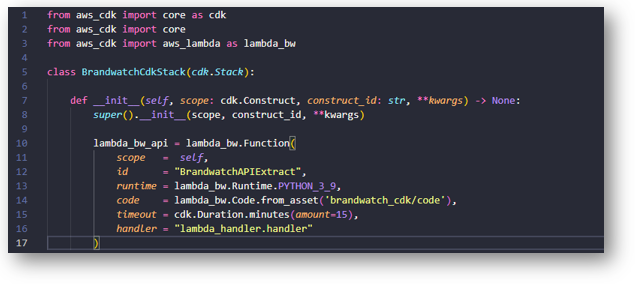
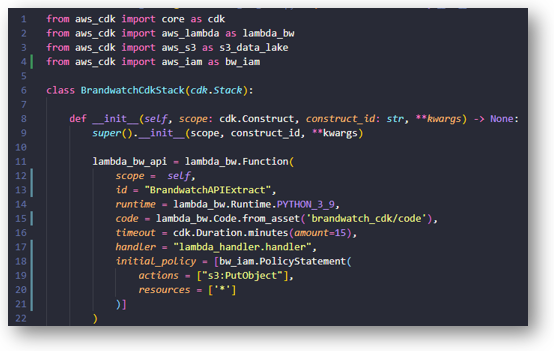
Adicionado permissão de PutObject no S3 para a lambda

Changed region(s): [[0.0, 0.0, 0.9819, 0.9897]]

diff --git a/brandwatch-cdk/brandwatch_cdk/brandwatch_cdk_stack.py b/brandwatch-cdk/brandwatch_cdk/brandwatch_cdk_stack.py
@@ -1,6 +1,7 @@
 from aws_cdk import core as cdk
 from aws_cdk import aws_lambda as lambda_bw
 from aws_cdk import aws_s3 as s3_data_lake
+from aws_cdk import aws_iam as bw_iam
 
 class BrandwatchCdkStack(cdk.Stack):
 
@@ -8,12 +9,16 @@ class BrandwatchCdkStack(cdk.Stack):
         super().__init__(scope, construct_id, **kwargs)
 
         lambda_bw_api = lambda_bw.Function(
-            scope   =  self,
-            id      = "BrandwatchAPIExtract",
+            scope =  self,
+            id = "BrandwatchAPIExtract",
             runtime = lambda_bw.Runtime.PYTHON_3_9,
-            code    = lambda_bw.Code.from_asset('brandwatch_cdk/code'),
+            code = lambda_bw.Code.from_asset('brandwatch_cdk/code'),
             timeout = cdk.Duration.minutes(amount=15),
-            handler = "lambda_handler.handler"
+            handler = "lambda_handler.handler",
+            initial_policy = [bw_iam.PolicyStatement(
+                actions = "s3:PutObject",
+                resources = ['arn:aws:s3:::data-lake-brandtest/*']
+            )]
         )
 
         bucket_data_lake = s3_data_lake.Bucket(
